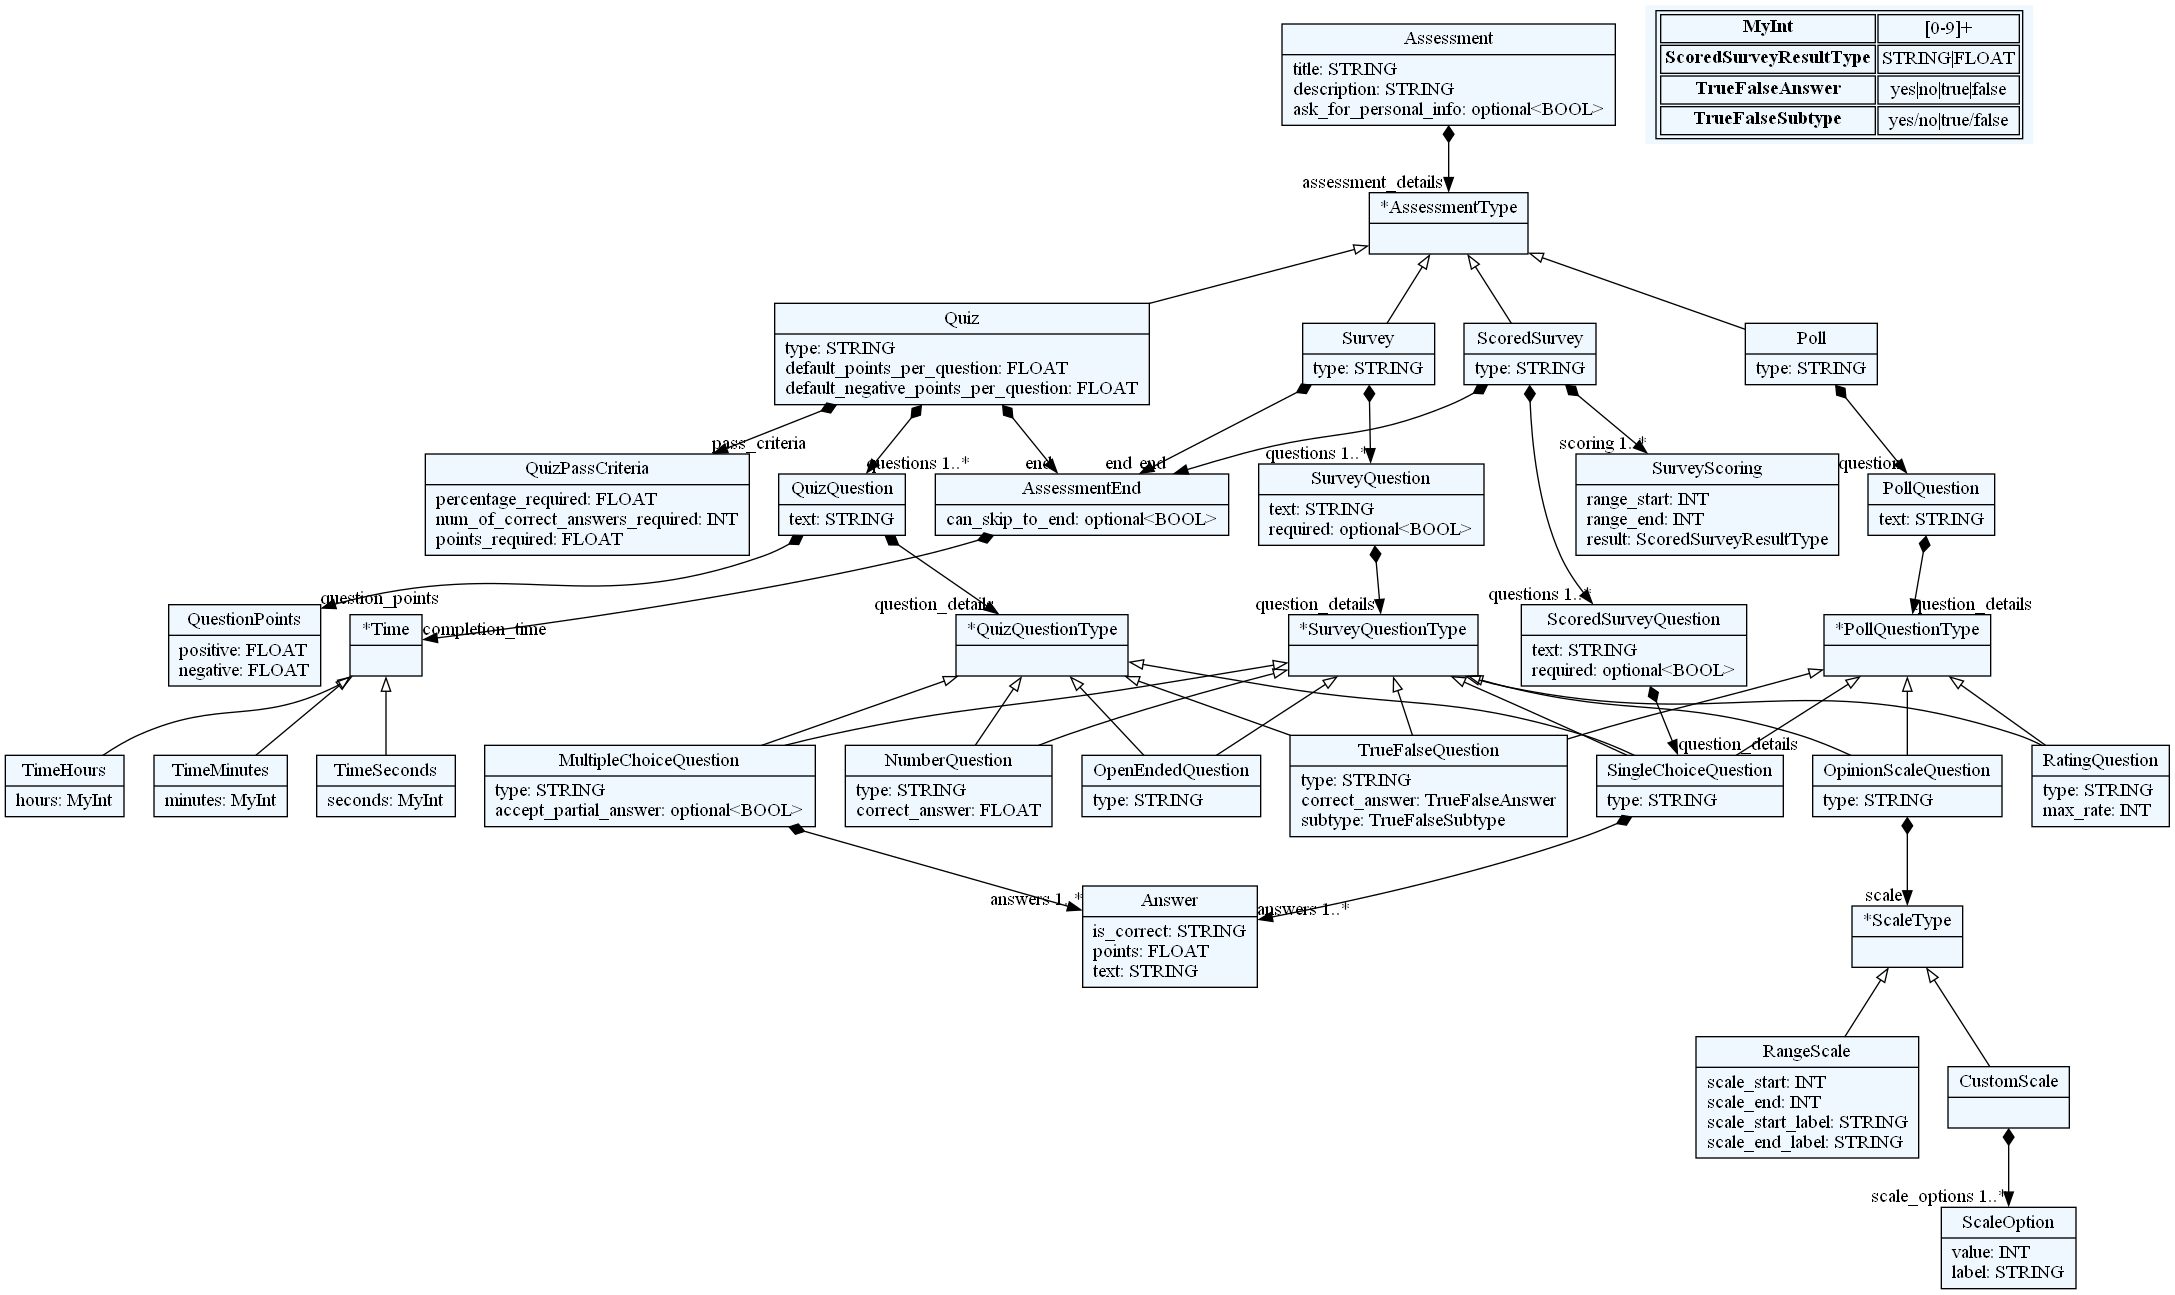
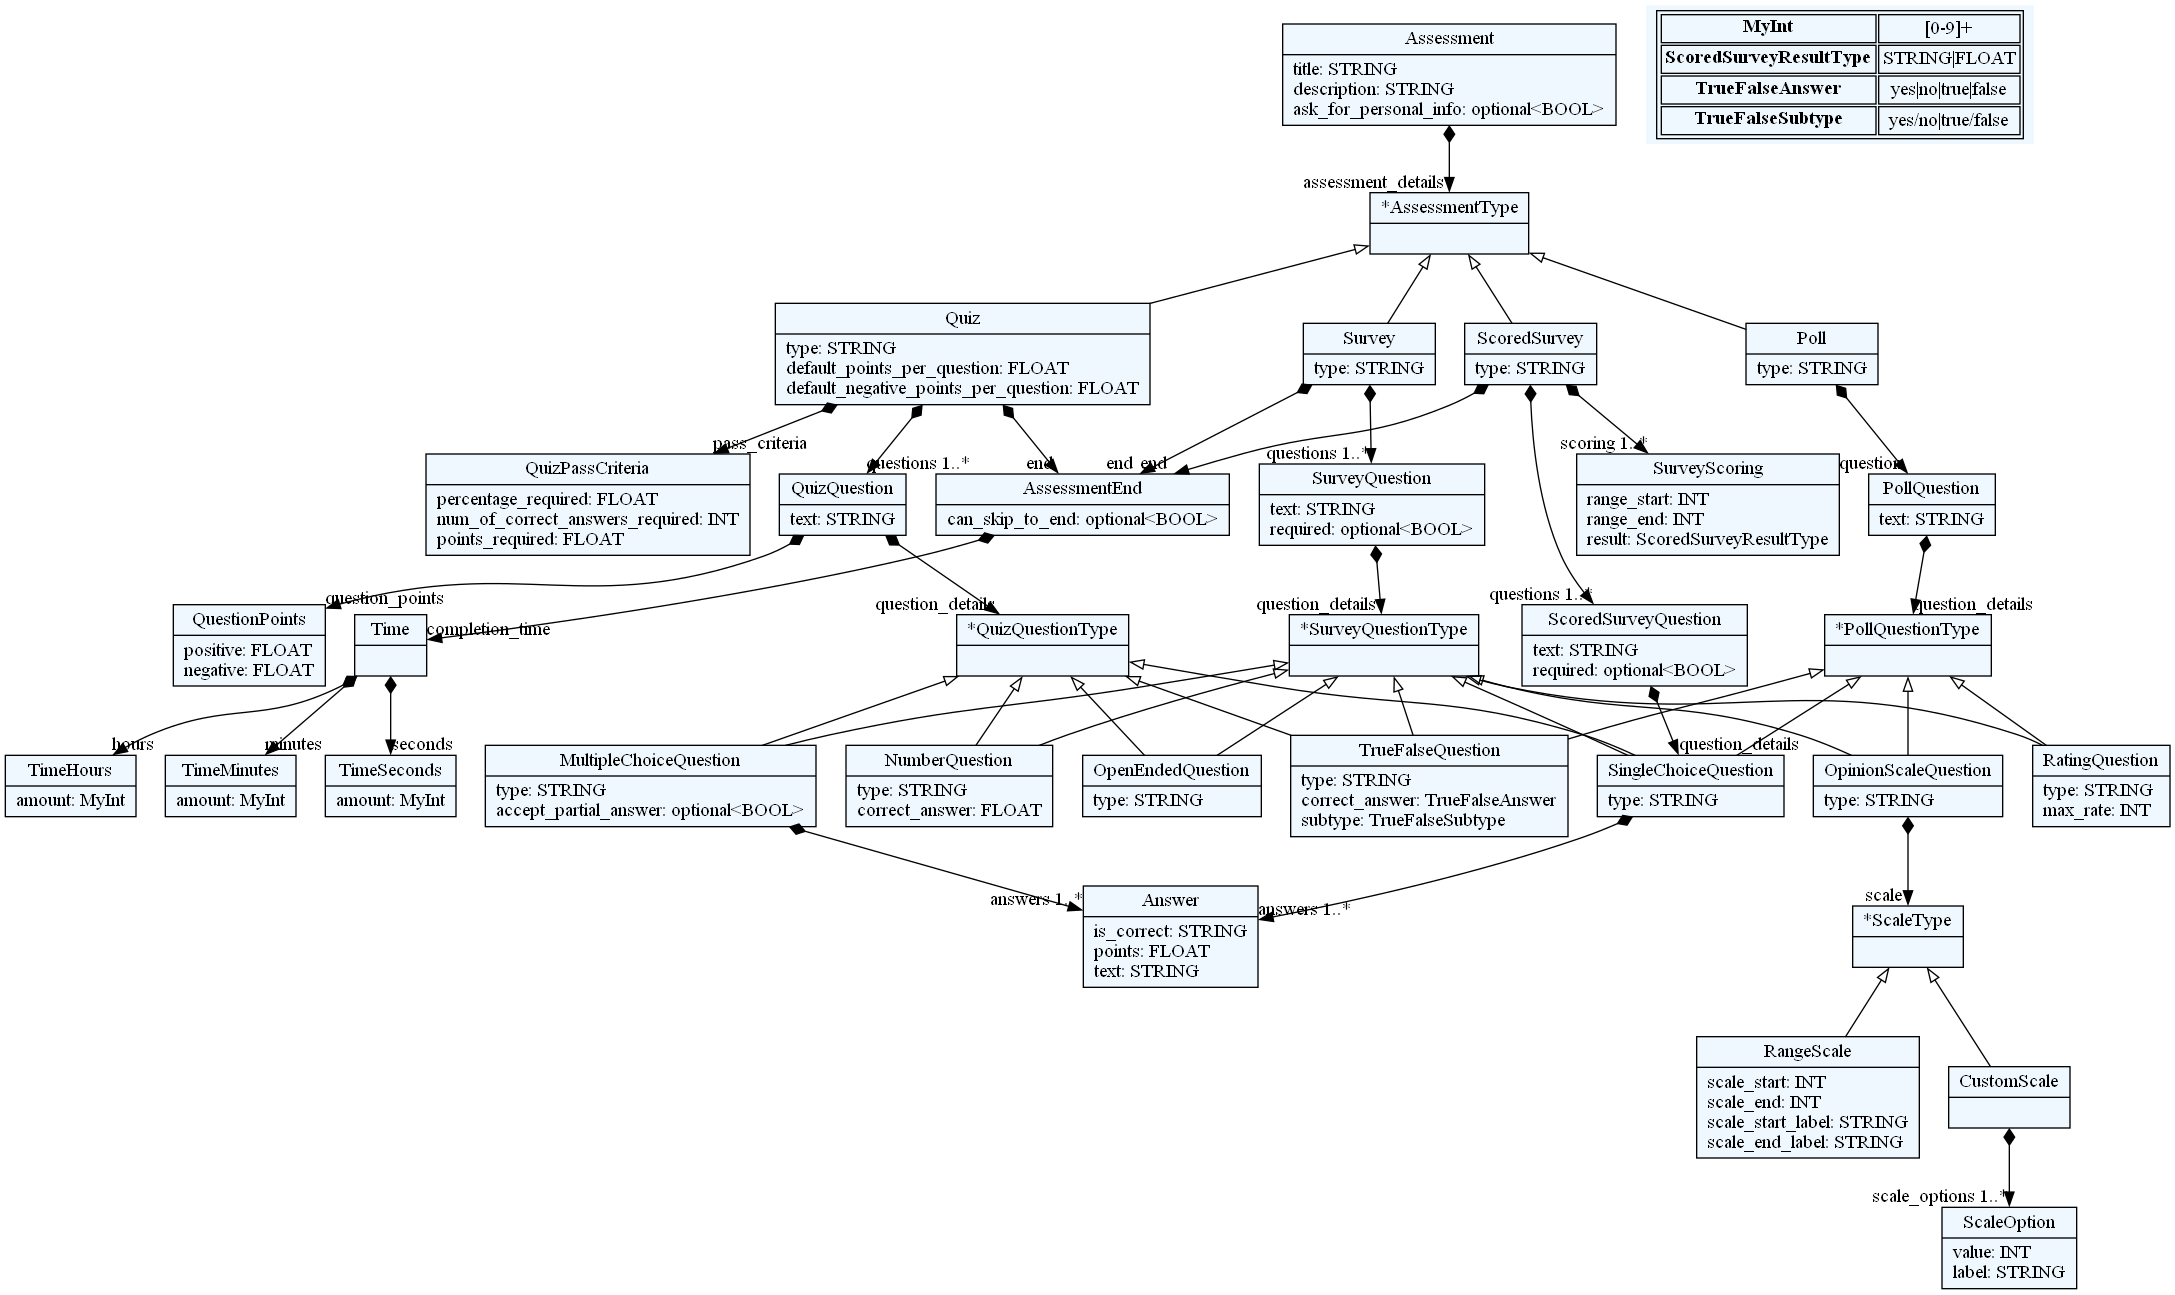
Small time changes in grammar and loading real data in FE

diff --git a/ques-tech-fe/src/components/Question/Question.jsx b/ques-tech-fe/src/components/Question/Question.jsx
@@ -58,13 +58,13 @@ const Question = ({ questionId, questionIndex, question }) => {
                 <FormControlLabel
                   key={index}
                   style={{ width: "100%" }}
-                  value={answer}
+                  value={answer.text}
                   control={<Checkbox />}
                   label={
                     <Typography
                       style={{ wordWrap: "break-word", width: "100%" }}
                     >
-                      {answer}
+                      {answer.text}
                     </Typography>
                   }
                 />
@@ -81,13 +81,13 @@ const Question = ({ questionId, questionIndex, question }) => {
                     <FormControlLabel
                       key={index}
                       style={{ width: "100%" }}
-                      value={answer}
+                      value={answer.text}
                       control={<Radio />}
                       label={
                         <Typography
                           style={{ wordWrap: "break-word", width: "100%" }}
                         >
-                          {answer}
+                          {answer.text}
                         </Typography>
                       }
                     />

diff --git a/ques-tech-fe/src/redux/assessmentSlice.js b/ques-tech-fe/src/redux/assessmentSlice.js
@@ -2,14 +2,20 @@ import { createSlice } from "@reduxjs/toolkit";
 export const assessmentSlice = createSlice({
   name: "assessmentData",
   initialState: {
-    type: "",
-    title: "",
-    description: "",
-    questions: [],
+    assessmentData: {
+      // questions: [],
+      // assessmentDetails: {},
+    },
   },
   reducers: {
     setAssessmentData: (state, action) => {
-      state.title = action.payload.title;
+      state.assessmentData = action.payload;
+      // state.assessmentData.questions =
+      //   action.payload.assessment_details.questions;
+      // state.assessmentData.assessmentDetails =
+      //   action.payload.assessment_details;
+      // delete state.assessmentData["assessment_details"];
+      // delete state.assessmentData.assessmentDetails["questions"];
     },
   },
 });

diff --git a/ques-tech-fe/src/pages/assessment/Assessment.jsx b/ques-tech-fe/src/pages/assessment/Assessment.jsx
@@ -56,11 +56,12 @@ const steps = [
 const Assessment = () => {
   //TODO pass assessment data
   const assessment = useSelector((state) => state.assessment);
+  console.log(assessment);
   return (
     // <Quiz questions={steps}></Quiz>
     <Survey
-      askForPersonalInfo={assessment.askForPersonalInfo}
-      questions={steps}
+      askForPersonalInfo={assessment.assessmentData.ask_for_personal_info}
+      questions={assessment.assessmentData.questions}
     />
   );
 };

diff --git a/classes.py b/classes.py
@@ -1,4 +1,5 @@
 
+# TODO implement opinion scale
 class Answer(object):
     def __init__(self, text: str):
         self.text = text
@@ -7,9 +8,15 @@ class Answer(object):
 
 
 class Question(object):
-    def __init__(self, text: str):
+    def __init__(self, type: str, text: str):
+        self.type = type
         self.text = text
         self.answers = []
+        self.required = None
+        self.subtype = None
+        self.max_rate = None
+        self.accept_partial_answer = None
+        self.question_points = None
 
 
 class Scoring(object):
@@ -25,7 +32,6 @@ def get_answer_object(answer):
 
 def convert_answers(question_details):
     if hasattr(question_details, "answers"):
-        # if hasattr(question_details.answers, '__len__') and (not isinstance(question_details.answers, str)):
         return list(map(get_answer_object, question_details.answers))
     elif hasattr(question_details, "correct_answer") and question_details.correct_answer is not None:
         # TODO float je 0.0 i kad se ne navede
@@ -34,22 +40,35 @@ def convert_answers(question_details):
 
 
 def get_question_object(question):
-    temp = Question(question.text)
+    temp = Question(question.question_details.type, question.text)
     temp.answers = convert_answers(question.question_details)
+    if hasattr(question, "required"):
+        temp.required = question.required
+    if hasattr(question.question_details, "subtype"):
+        temp.subtype = question.question_details.subtype
+    if hasattr(question.question_details, "max_rate"):
+        temp.max_rate = question.question_details.max_rate
+    if hasattr(question.question_details, "accept_partial_answer"):
+        temp.accept_partial_answer = question.question_details.accept_partial_answer
     return temp
 
 
 def convert_questions(asseessment_details):
     if (hasattr(asseessment_details, "questions")):
-        # if hasattr(asseessment_details.questions, '__len__') and (not isinstance(asseessment_details.questions, str)):
         return list(map(get_question_object, asseessment_details.questions))
     elif (hasattr(asseessment_details, "question")):
         return list(map(get_question_object, [asseessment_details.question]))
     return []
 
 
-def parse_completion_time(completion_time):
-    return completion_time
+def parse_completion_time(assessment_end):
+    if hasattr(assessment_end, "completion_time"):
+        print(assessment_end.completion_time.hours)
+        print(assessment_end.completion_time.minutes)
+        print(assessment_end.completion_time.seconds)
+        # TODO parse time here to miliseconds
+        # return assessment_end.completion_time
+    return None
 
 
 class SurveyScoring(object):
@@ -64,7 +83,6 @@ class SurveyScoring(object):
 
 class AssessmentDetails(object):
     def __init__(self, ):
-        self.questions = None
         self.default_points_per_question = None
         self.default_negative_points_per_question = None
         self.completion_time = None
@@ -80,12 +98,10 @@ class AssessmentDetails(object):
 
 def convert_assessment_details(assessment_details) -> AssessmentDetails:
     temp = AssessmentDetails()
-    temp.questions = convert_questions(assessment_details)
-    # TODO ne raditi sa maybe, puca, dodati hasattr
-    # if (assessment_details.type != "poll"):
-    #     temp.completion_time = parse_completion_time(
-    #         maybe(assessment_details.end).completion_time)
-    #     temp.can_skip_to_end = maybe(assessment_details.end).can_skip_to_end
+    if (assessment_details.type != "poll" and assessment_details.end):
+        temp.completion_time = parse_completion_time(
+            assessment_details.end)
+        temp.can_skip_to_end = assessment_details.end.can_skip_to_end
 
     if (assessment_details.type == "quiz" and assessment_details.pass_criteria):
         temp.default_points_per_question = assessment_details.default_points_per_question
@@ -101,18 +117,14 @@ def convert_assessment_details(assessment_details) -> AssessmentDetails:
     return temp
 
 
-class Test(object):
-    def __init__(self, text):
-
-        self.text = text
-
-
 class Assessment(object):
     def __init__(self, title: str, description: str, ask_for_personal_info: bool, assessment_details: AssessmentDetails):
+        print(assessment_details)
         self.title = title
         self.description = description
         self.ask_for_personal_info = ask_for_personal_info
         self.type = assessment_details.type
+        self.questions = convert_questions(assessment_details)
         self.assessment_details = convert_assessment_details(
             assessment_details)
 

diff --git a/main.py b/main.py
@@ -6,7 +6,7 @@ import click
 import uvicorn
 
 from metamodel import get_assessment_mm
-from classes import Assessment, Test
+from classes import Assessment
 from fastapi.encoders import jsonable_encoder
 from fastapi.responses import JSONResponse
 from fastapi import FastAPI
@@ -27,8 +27,7 @@ this_folder = dirname(__file__)
 assessment_mm = get_assessment_mm(this_folder)
 
 
-@app.get("/assessment", response_model=None)
-def hello(assessment_file: str):
+def generate_model(assessment_file: str):
     try:
         # assessment: Assessment = assessment_mm.model_from_file(
         #     join(abspath(this_folder), assessment_file))
@@ -46,7 +45,14 @@ def hello(assessment_file: str):
         print("Exception: {}".format(type(e).__name__))
         print("Exception message: {}".format(e))
         return
+    return assessment
 
+
+@app.get("/assessment", response_model=None)
+def hello(assessment_file: str):
+    assessment = generate_model(assessment_file)
+    if assessment is None:
+        return
     response = Assessment(assessment.title, assessment.description,
                           assessment.ask_for_personal_info, assessment.assessment_details)
 
@@ -61,9 +67,10 @@ def hello(assessment_file: str):
 
 
 @ click.command()
-@ click.option('--run_server', default="true", help="Full or relative path to the assessment file")
-# TODO izmeniti read me - ovo je opcija koju stavimo na false ako hocemo samo da se generise meta model i dot fajlovi
-def main(run_server):
+@ click.option('--run_server', default="true", help="Option to not run server")
+@ click.option('--assessment_file', help="Full or relative path to the assessment file")
+# TODO testirati opciju da dodas assessment file
+def main(run_server, assessment_file):
     dot_folder = join(this_folder, 'dot_files')
     if not os.path.exists(dot_folder):
         os.mkdir(dot_folder)
@@ -71,7 +78,9 @@ def main(run_server):
     (graph,) = pydot.graph_from_dot_file(join(dot_folder, 'grammar.dot'))
     graph.write_png(join(dot_folder, 'grammar.png'))
 
-    if run_server != "false":
+    if assessment_file is not None:
+        generate_model(assessment_file)
+    elif run_server != "false":
         uvicorn.run("main:app", log_level="info")
 
 

diff --git a/README.md b/README.md
@@ -3,23 +3,19 @@
 <span>DSL for making different types of assessments.</span>
 <br/>
 <h3>Usage</h3>
-[Optional] Create virtual environment,
-e.g.
 <ol>
-    <li>python -m venv venv</li>
-    <li>
+    <li>[If not existing] Create virtual environment: <b>python -m venv venv </b></li>
+    <li>Activate venv:
         <ul>
             <li><b>Windows:</b> .\venv\Scripts\activate</li>
             <li><b>Linux:</b>&emsp;&emsp;source .\venv\bin\activate</li>
         </ul>
     </li>
+    <li>
+        <b>Install textX:</b> pip install textx[cli]
+    </li>
     <li>Run application with "python main.py". It will create metamodel, generate dot files and run the server on http://127.0.0.1:8000.</li>
     <li>If you only want to create metamodel and dot files, run with "python main.py --run_server=false"</li>
-</ol>
-Installation
-<ol>
-  <li>
-     <b>Install textX:</b> pip install textx[cli]
-  </li>
+    <li>Enter the folder with "cd ques-tech-fe" and run "npm run start" to start the React application.</li>
 </ol>
 <br/>
